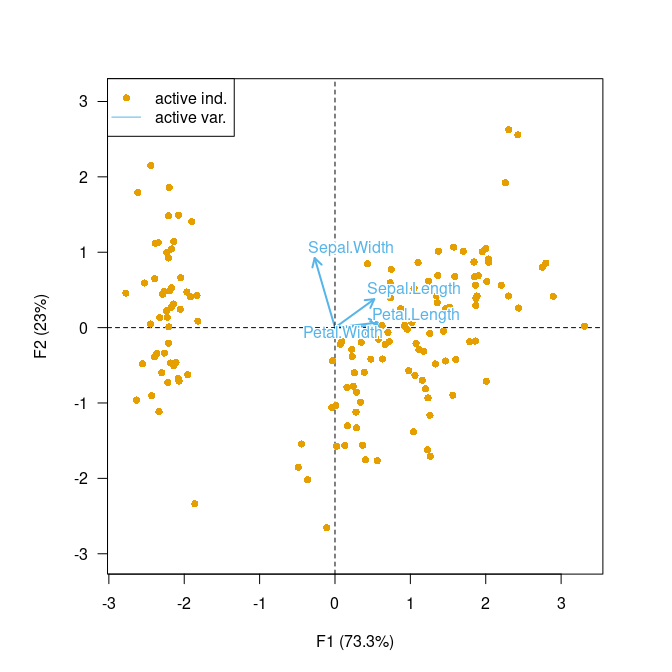
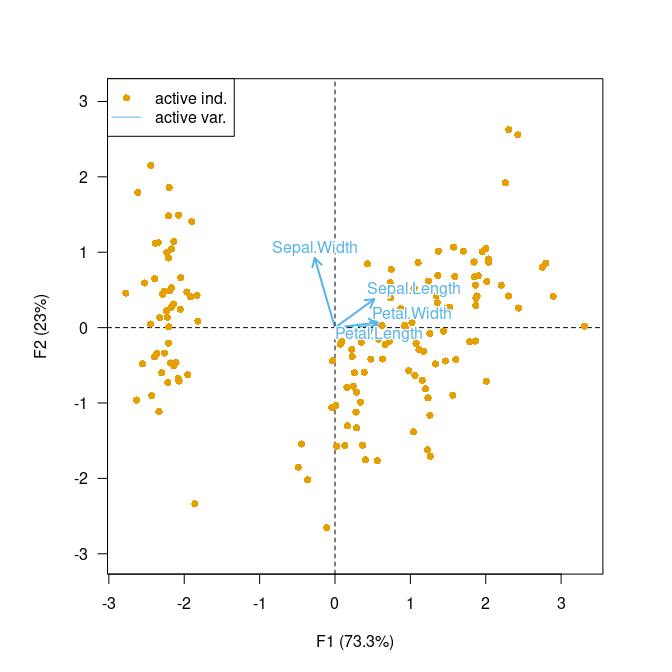
Prepare for next release

Changed region(s): [[0.4375, 0.4375, 0.6875, 0.5312], [0.4062, 0.3438, 0.5938, 0.375]]

diff --git a/revdep/README.md b/revdep/README.md
@@ -1,24 +1,24 @@
 # Platform
 
-|field    |value                                                                        |
-|:--------|:----------------------------------------------------------------------------|
-|version  |R version 4.3.3 (2024-02-29)                                                 |
-|os       |Ubuntu 22.04.4 LTS                                                           |
-|system   |x86_64, linux-gnu                                                            |
-|ui       |RStudio                                                                      |
-|language |(EN)                                                                         |
-|collate  |fr_FR.UTF-8                                                                  |
-|ctype    |fr_FR.UTF-8                                                                  |
-|tz       |Europe/Paris                                                                 |
-|date     |2024-04-09                                                                   |
-|rstudio  |2023.12.1+402 Ocean Storm (desktop)                                          |
-|pandoc   |3.1.1 @ /usr/lib/rstudio/resources/app/bin/quarto/bin/tools/ (via rmarkdown) |
+|field    |value                                                                                |
+|:--------|:------------------------------------------------------------------------------------|
+|version  |R version 4.4.0 (2024-04-24)                                                         |
+|os       |Ubuntu 22.04.4 LTS                                                                   |
+|system   |x86_64, linux-gnu                                                                    |
+|ui       |RStudio                                                                              |
+|language |(EN)                                                                                 |
+|collate  |fr_FR.UTF-8                                                                          |
+|ctype    |fr_FR.UTF-8                                                                          |
+|tz       |Europe/Paris                                                                         |
+|date     |2024-06-07                                                                           |
+|rstudio  |2024.04.1+748 Chocolate Cosmos (desktop)                                             |
+|pandoc   |3.1.11 @ /usr/lib/rstudio/resources/app/bin/quarto/bin/tools/x86_64/ (via rmarkdown) |
 
 # Dependencies
 
 |package  |old   |new   |Δ  |
 |:--------|:-----|:-----|:--|
-|dimensio |0.6.0 |0.7.0 |*  |
+|dimensio |0.7.0 |0.8.0 |*  |
 |arkhe    |1.6.0 |1.6.0 |   |
 
 # Revdeps

diff --git a/README.md b/README.md
@@ -51,28 +51,17 @@ as [**FactoMineR**](http://factominer.free.fr/),
 is designed to be as simple as possible, providing all the necessary
 tools to explore the results of the analysis.
 
-    To cite dimensio in publications use:
+------------------------------------------------------------------------
 
-      Frerebeau N (2024). _dimensio: Multivariate Data Analysis_.
-      Université Bordeaux Montaigne, Pessac, France.
-      doi:10.5281/zenodo.4478530 <https://doi.org/10.5281/zenodo.4478530>,
-      R package version 0.7.0, <https://packages.tesselle.org/dimensio/>.
+To cite dimensio in publications use:
 
-    A BibTeX entry for LaTeX users is
+Frerebeau N (2024). *dimensio: Multivariate Data Analysis*. Université
+Bordeaux Montaigne, Pessac, France. <doi:10.5281/zenodo.4478530>
+<https://doi.org/10.5281/zenodo.4478530>, R package version 0.8.0,
+<https://packages.tesselle.org/dimensio/>.
 
-      @Manual{R-dimensio,
-        author = {Nicolas Frerebeau},
-        title = {{dimensio: Multivariate Data Analysis}},
-        year = {2024},
-        organization = {Université Bordeaux Montaigne},
-        address = {Pessac, France},
-        note = {R package version 0.7.0},
-        doi = {10.5281/zenodo.4478530},
-        url = {https://packages.tesselle.org/dimensio/},
-      }
-
-    This package is a part of the tesselle project
-    <https://www.tesselle.org>.
+This package is a part of the tesselle project
+<https://www.tesselle.org>.
 
 ## Installation
 

diff --git a/NEWS.md b/NEWS.md
@@ -1,4 +1,10 @@
-# dimensio 0.7.0.9000
+# dimensio 0.8.0
+## Enhancements
+* Improve aesthetic mapping in scatterplots.
+* Faster computation of non-overlapping labels.
+
+## Internals
+* Store supplementary variables in a list in `MultivariateAnalysis` object.
 
 # dimensio 0.7.0
 ## Bugfixes & changes
